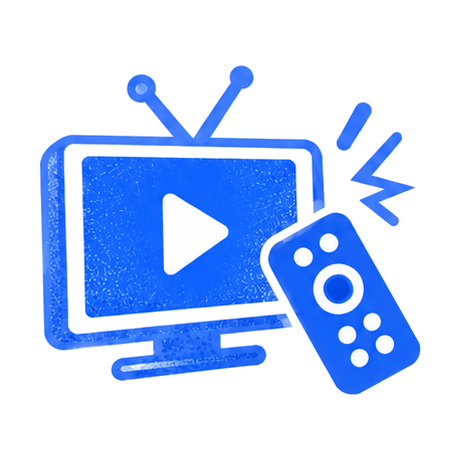
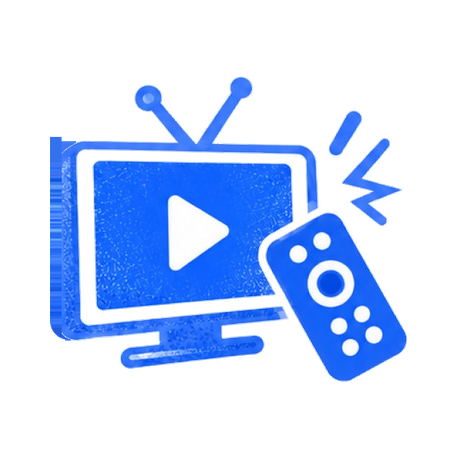
Restore complete unclipped artwork for cable tv, data subscription, and exam pins with uniform sizing

diff --git a/styles.css b/styles.css
@@ -738,14 +738,13 @@ ul {
 
 .feature-icon-wrapper {
   position: relative;
-  width: 136px;
+  width: 120px;
   height: 120px;
   display: flex;
   align-items: center;
   justify-content: flex-start;
   background-color: transparent;
   flex-shrink: 0;
-  overflow: visible;
 }
 
 .feature-icon-img {
@@ -755,15 +754,6 @@ ul {
   max-height: 120px;
   object-fit: contain;
   display: block;
-}
-
-.feature-icon-img[src*="data-subscription"],
-.feature-icon-img[src*="cable-tv"],
-.feature-icon-img[src*="exam-pins"] {
-  max-width: 134px;
-  width: 134px;
-  transform: scale(1.08);
-  transform-origin: left center;
 }
 
 .feature-card-title {
@@ -1667,24 +1657,14 @@ ul {
   }
 
   .feature-icon-wrapper {
-    width: 96px;
+    width: 84px;
     height: 84px;
-    overflow: visible;
   }
 
   .feature-icon-img {
     width: 84px;
     max-width: 84px;
     max-height: 84px;
-  }
-
-  .feature-icon-img[src*="data-subscription"],
-  .feature-icon-img[src*="cable-tv"],
-  .feature-icon-img[src*="exam-pins"] {
-    max-width: 96px;
-    width: 96px;
-    transform: scale(1.08);
-    transform-origin: left center;
   }
 
   .feature-card-title {
@@ -1936,24 +1916,14 @@ ul {
   }
 
   .feature-icon-wrapper {
-    width: 72px;
+    width: 60px;
     height: 60px;
-    overflow: visible;
   }
 
   .feature-icon-img {
     width: 60px;
     max-width: 60px;
     max-height: 60px;
-  }
-
-  .feature-icon-img[src*="data-subscription"],
-  .feature-icon-img[src*="cable-tv"],
-  .feature-icon-img[src*="exam-pins"] {
-    max-width: 72px;
-    width: 72px;
-    transform: scale(1.08);
-    transform-origin: left center;
   }
 
   .feature-card-title {

diff --git a/index.html b/index.html
@@ -7,7 +7,7 @@
   <link rel="preconnect" href="https://fonts.googleapis.com">
   <link rel="preconnect" href="https://fonts.gstatic.com" crossorigin>
   <link href="https://fonts.googleapis.com/css2?family=Caveat:wght@400;600;700&family=Comic+Neue:wght@700&family=Instrument+Sans:ital,wght@0,400;0,500;0,600;0,700;1,400;1,600&family=Playwrite+US+Modern:wght@100..400&display=swap" rel="stylesheet">
-  <link rel="stylesheet" href="styles.css?v=10">
+  <link rel="stylesheet" href="styles.css?v=11">
 </head>
 <body>
   <!-- Landing Page Hero & Nav Section -->
@@ -476,6 +476,6 @@
     </div>
   </aside>
 
-  <script src="app.js?v=10"></script>
+  <script src="app.js?v=11"></script>
 </body>
 </html>
